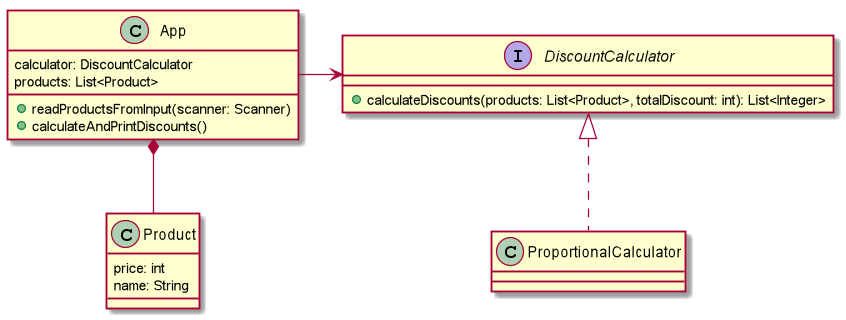
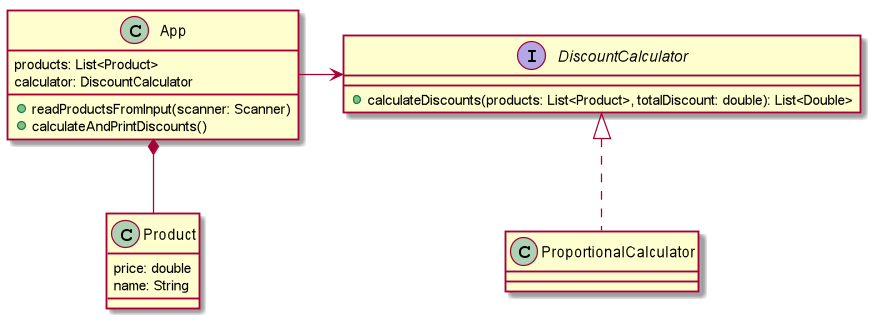
Create all (empty) classes and write some tests for calculator

diff --git a/src/test/java/ProportionalCalculatorTest.java b/src/test/java/ProportionalCalculatorTest.java
@@ -1,0 +1,100 @@
+import org.junit.jupiter.api.Assertions;
+import org.junit.jupiter.api.Test;
+
+import java.util.List;
+
+public class ProportionalCalculatorTest {
+    ProportionalCalculator calculator = new ProportionalCalculator();
+
+    @Test
+    void shouldReturnFullDiscountForOneProduct() {
+        // given
+        List<Product> products = List.of(
+                new Product("Product1", 100)
+        );
+        double totalDiscount = 50;
+
+        // when
+        List<Double> discounts = calculator.calculateDiscounts(products, totalDiscount);
+
+        // then
+        List<Double> expectedDiscounts = List.of(50.0);
+        Assertions.assertIterableEquals(expectedDiscounts, discounts);
+    }
+
+    @Test
+    void shouldReturnExactProportionalDiscount() {
+        // given
+        List<Product> products = List.of(
+                new Product("Product1", 500),
+                new Product("Product2", 1500)
+        );
+        double totalDiscount = 100;
+
+        // when
+        List<Double> discounts = calculator.calculateDiscounts(products, totalDiscount);
+
+        // then
+        List<Double> expectedDiscounts = List.of(25.0, 75.0);
+        Assertions.assertIterableEquals(expectedDiscounts, discounts);
+    }
+
+    @Test
+    void shouldReturnPricesForTotalDiscountHigherThanSumOfAllProducts() {
+        // given
+        List<Product> products = List.of(
+                new Product("Product1", 500),
+                new Product("Product2", 1500)
+        );
+        double totalDiscount = 2500;
+
+        // when
+        List<Double> discounts = calculator.calculateDiscounts(products, totalDiscount);
+
+        // then
+        List<Double> expectedDiscounts = List.of(500.0, 1500.0);
+        Assertions.assertIterableEquals(expectedDiscounts, discounts);
+    }
+
+    @Test
+    void shouldReturnHigherDiscountForLastProductWhenCannotBeProportional() {
+        // given
+        List<Product> products = List.of(
+                new Product("Product1", 1000),
+                new Product("Product2", 1)
+        );
+        double totalDiscount = 0.01; // 1 grosz
+
+        // when
+        List<Double> discounts = calculator.calculateDiscounts(products, totalDiscount);
+
+        // then
+        List<Double> expectedDiscounts = List.of(0.0, 0.01);
+        Assertions.assertIterableEquals(expectedDiscounts, discounts);
+    }
+
+    @Test
+    void shouldReturnHigherDiscountForLastProductWhenCannotBeProportional2() {
+        // given
+        List<Product> products = List.of(
+                new Product("Product1", 400),
+                new Product("Product1", 800),
+                new Product("Product1", 1100),
+                new Product("Product1", 1000),
+                new Product("Product2", 500)
+        );
+        double totalDiscount = 1;
+
+        // when
+        List<Double> discounts = calculator.calculateDiscounts(products, totalDiscount);
+
+        // then
+        List<Double> expectedDiscounts = List.of(0.10, 0.21, 0.28, 0.26, 0.15);
+        Assertions.assertIterableEquals(expectedDiscounts, discounts);
+    }
+
+    // TODO przykład z README, gdzie nie da się dołożyć nadwyżki do ostatniego
+    // TODO jeden produkt za 0 zł/pusta lista/uwaga na dzielenie przez zero
+
+}
+

diff --git a/src/main/java/App.java b/src/main/java/App.java
@@ -1,0 +1,36 @@
+import java.util.List;
+import java.util.Scanner;
+
+public class App {
+    private List<Product> products;
+    private DiscountCalculator discountCalculator;
+
+    public App(List<Product> products, DiscountCalculator discountCalculator) {
+        this.products = products;
+        this.discountCalculator = discountCalculator;
+    }
+
+    public void readProductsFromInput(Scanner scanner) {
+        // TODO
+    }
+
+    public void calculateAndPrintDiscounts() {
+        // TODO
+    }
+
+    public List<Product> getProducts() {
+        return products;
+    }
+
+    public void setProducts(List<Product> products) {
+        this.products = products;
+    }
+
+    public DiscountCalculator getDiscountCalculator() {
+        return discountCalculator;
+    }
+
+    public void setDiscountCalculator(DiscountCalculator discountCalculator) {
+        this.discountCalculator = discountCalculator;
+    }
+}

diff --git a/src/main/java/Product.java b/src/main/java/Product.java
@@ -1,0 +1,25 @@
+public class Product {
+    private String name;
+    private double price;
+
+    public Product(String name, double price) {
+        this.name = name;
+        this.price = price;
+    }
+
+    public String getName() {
+        return name;
+    }
+
+    public void setName(String name) {
+        this.name = name;
+    }
+
+    public double getPrice() {
+        return price;
+    }
+
+    public void setPrice(double price) {
+        this.price = price;
+    }
+}

diff --git a/src/main/java/Main.java b/src/main/java/Main.java
@@ -1,5 +1,11 @@
+import java.util.List;
+
 public class Main {
     public static void main(String[] args) {
-        System.out.println("Hello world!");
+        List<Product> products = List.of(
+                new Product("Product1", 100)
+        );
+        App app = new App(products, new ProportionalCalculator());
+        app.calculateAndPrintDiscounts();
     }
 }

diff --git a/src/main/java/ProportionalCalculator.java b/src/main/java/ProportionalCalculator.java
@@ -1,0 +1,9 @@
+import java.util.List;
+
+public class ProportionalCalculator implements DiscountCalculator {
+    @Override
+    public List<Double> calculateDiscounts(List<Product> products, double totalDiscount) {
+        // TODO
+        return null;
+    }
+}

diff --git a/src/main/java/DiscountCalculator.java b/src/main/java/DiscountCalculator.java
@@ -1,0 +1,5 @@
+import java.util.List;
+
+public interface DiscountCalculator {
+    List<Double> calculateDiscounts(List<Product> products, double totalDiscount);
+}

diff --git a/README.md b/README.md
@@ -3,3 +3,14 @@ Zadanie rekrutacyjne do firmy UnityGroup
 
 ### Diagram klas
 ![image](./class_diagram.png)
+
+### Dodatkowe założenia
+
+Oto założenia, które przyjąłem, a nie wynikają bezpośrednio z treści:
+- ceny i rabaty są reprezentowane jako liczby wymierne z maksymalnie dwoma miejscami po przecinku (reprezentacja złotych i groszy)
+- "idealne proporcje" to takie, wg których rabat dla danego produktu jest liczbą zgodną z ustaloną wyżej reprezentacją rabatu (tj. z dokładnością do grosza)
+- gdy proporcje nie są idealne, wyliczony rabat jest zaokrąglany w dół, a nadwyżki są dodawane do ostatniego produktu. 
+  Powoduje to jednak problem, ponieważ ostatni produkt może mieć bardzo niską cenę i nie będzie można dodać całej nadwyżki
+  ze wszystkich pozostałych produktów (rabat na pojedynczy produkt nie może przekraczać jego ceny). Wtedy naliczony na ostatni produkt rabat
+  równy jest jego cenie, a suma rabatów nie jest równa całemu rabatowi. Próba rozłożenia nadwyżki z zaokrąglenia na inne produkty
+  mogłaby być rozwiązaniem, ale byłaby sprzeczna z wymaganiami zadania.
